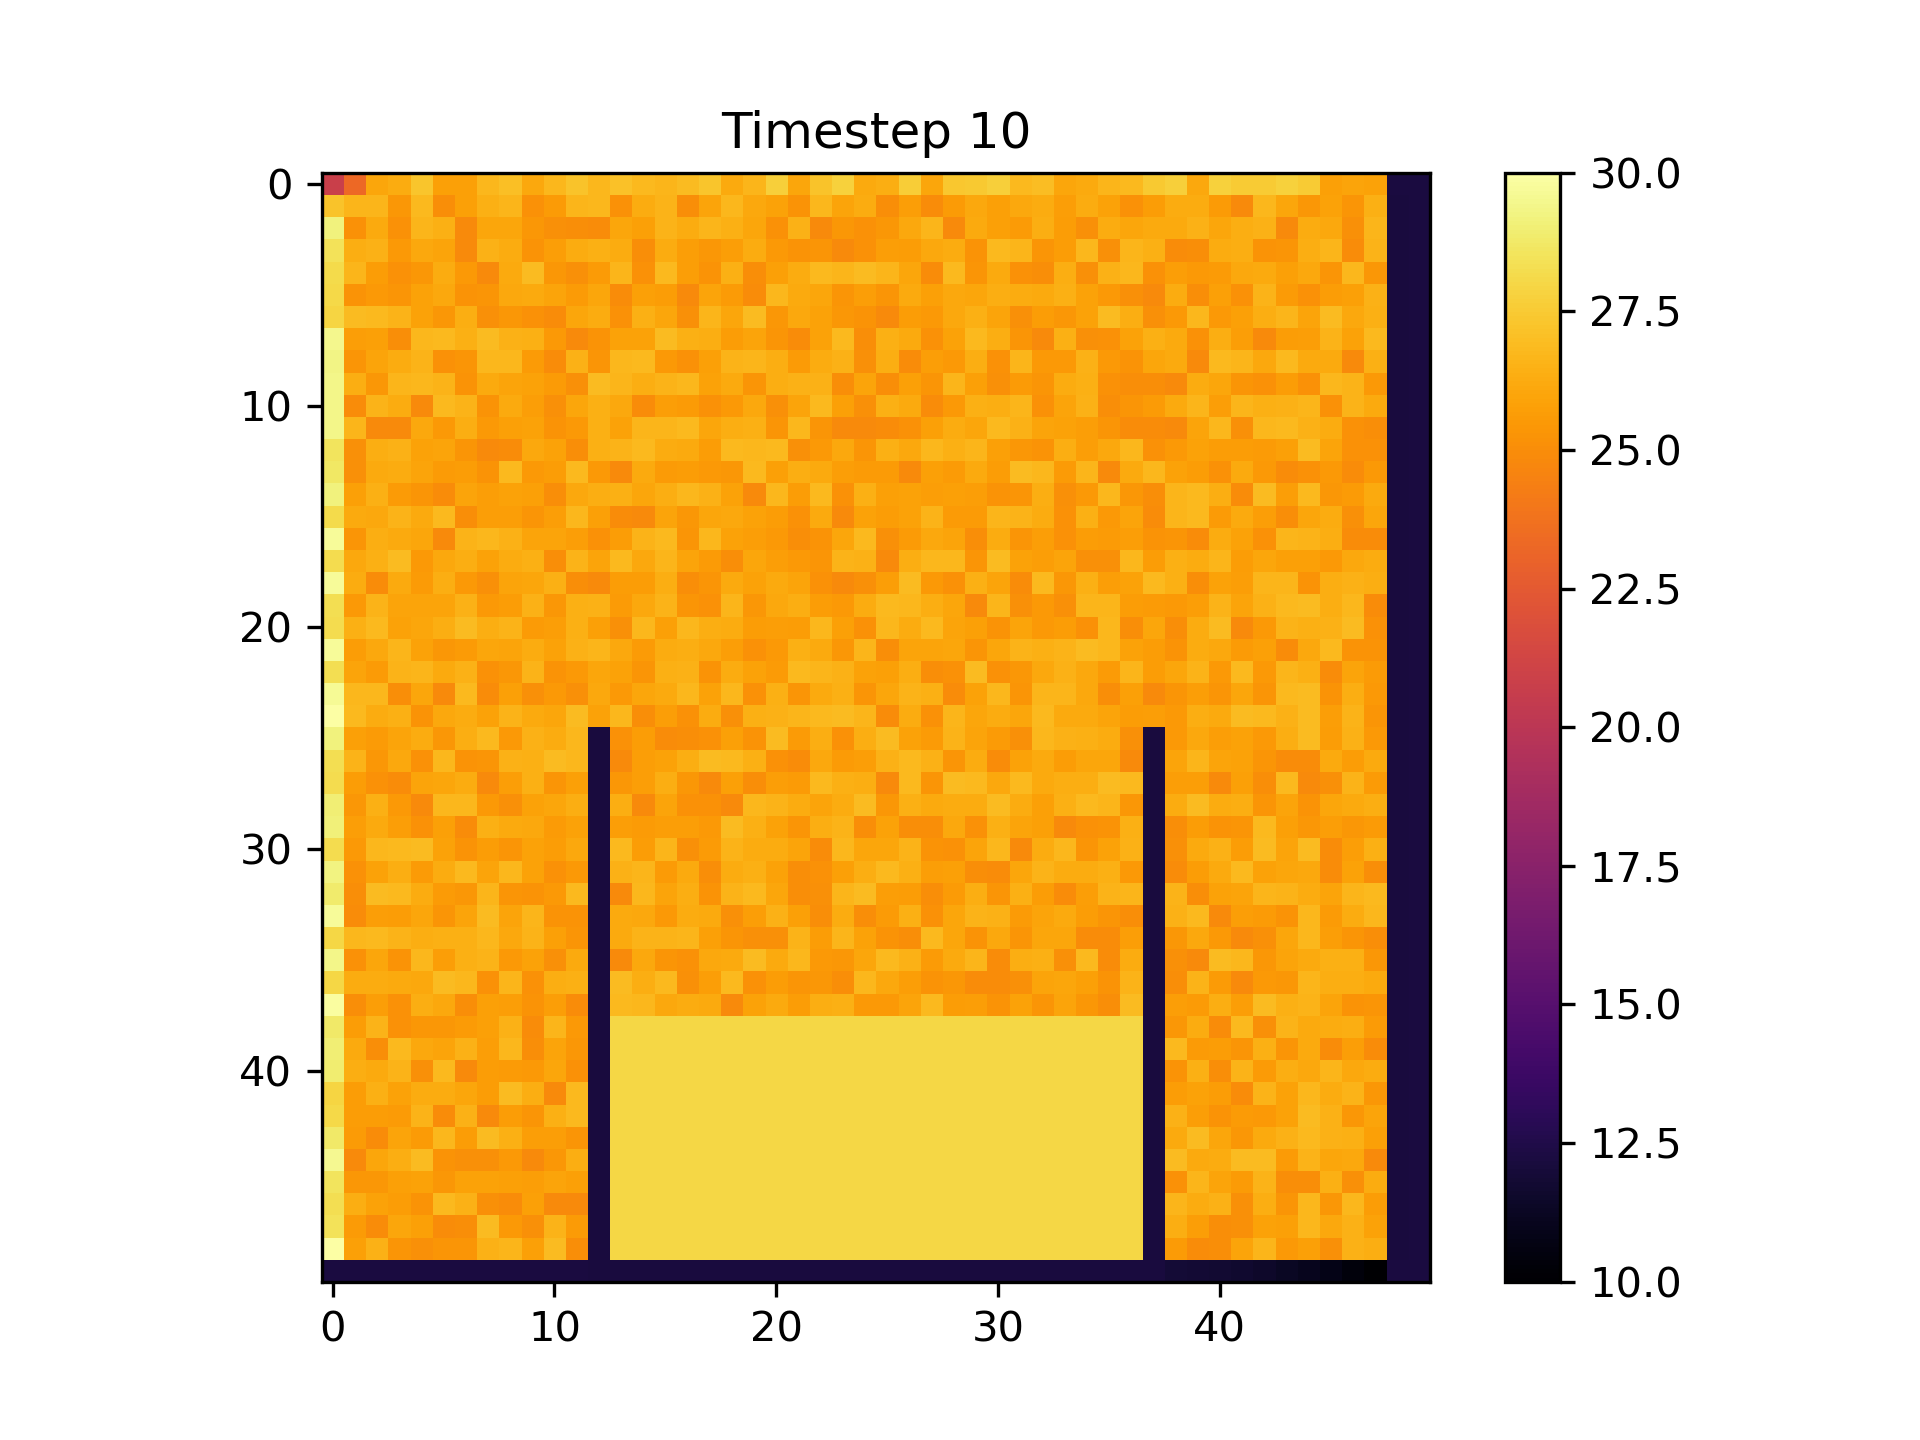
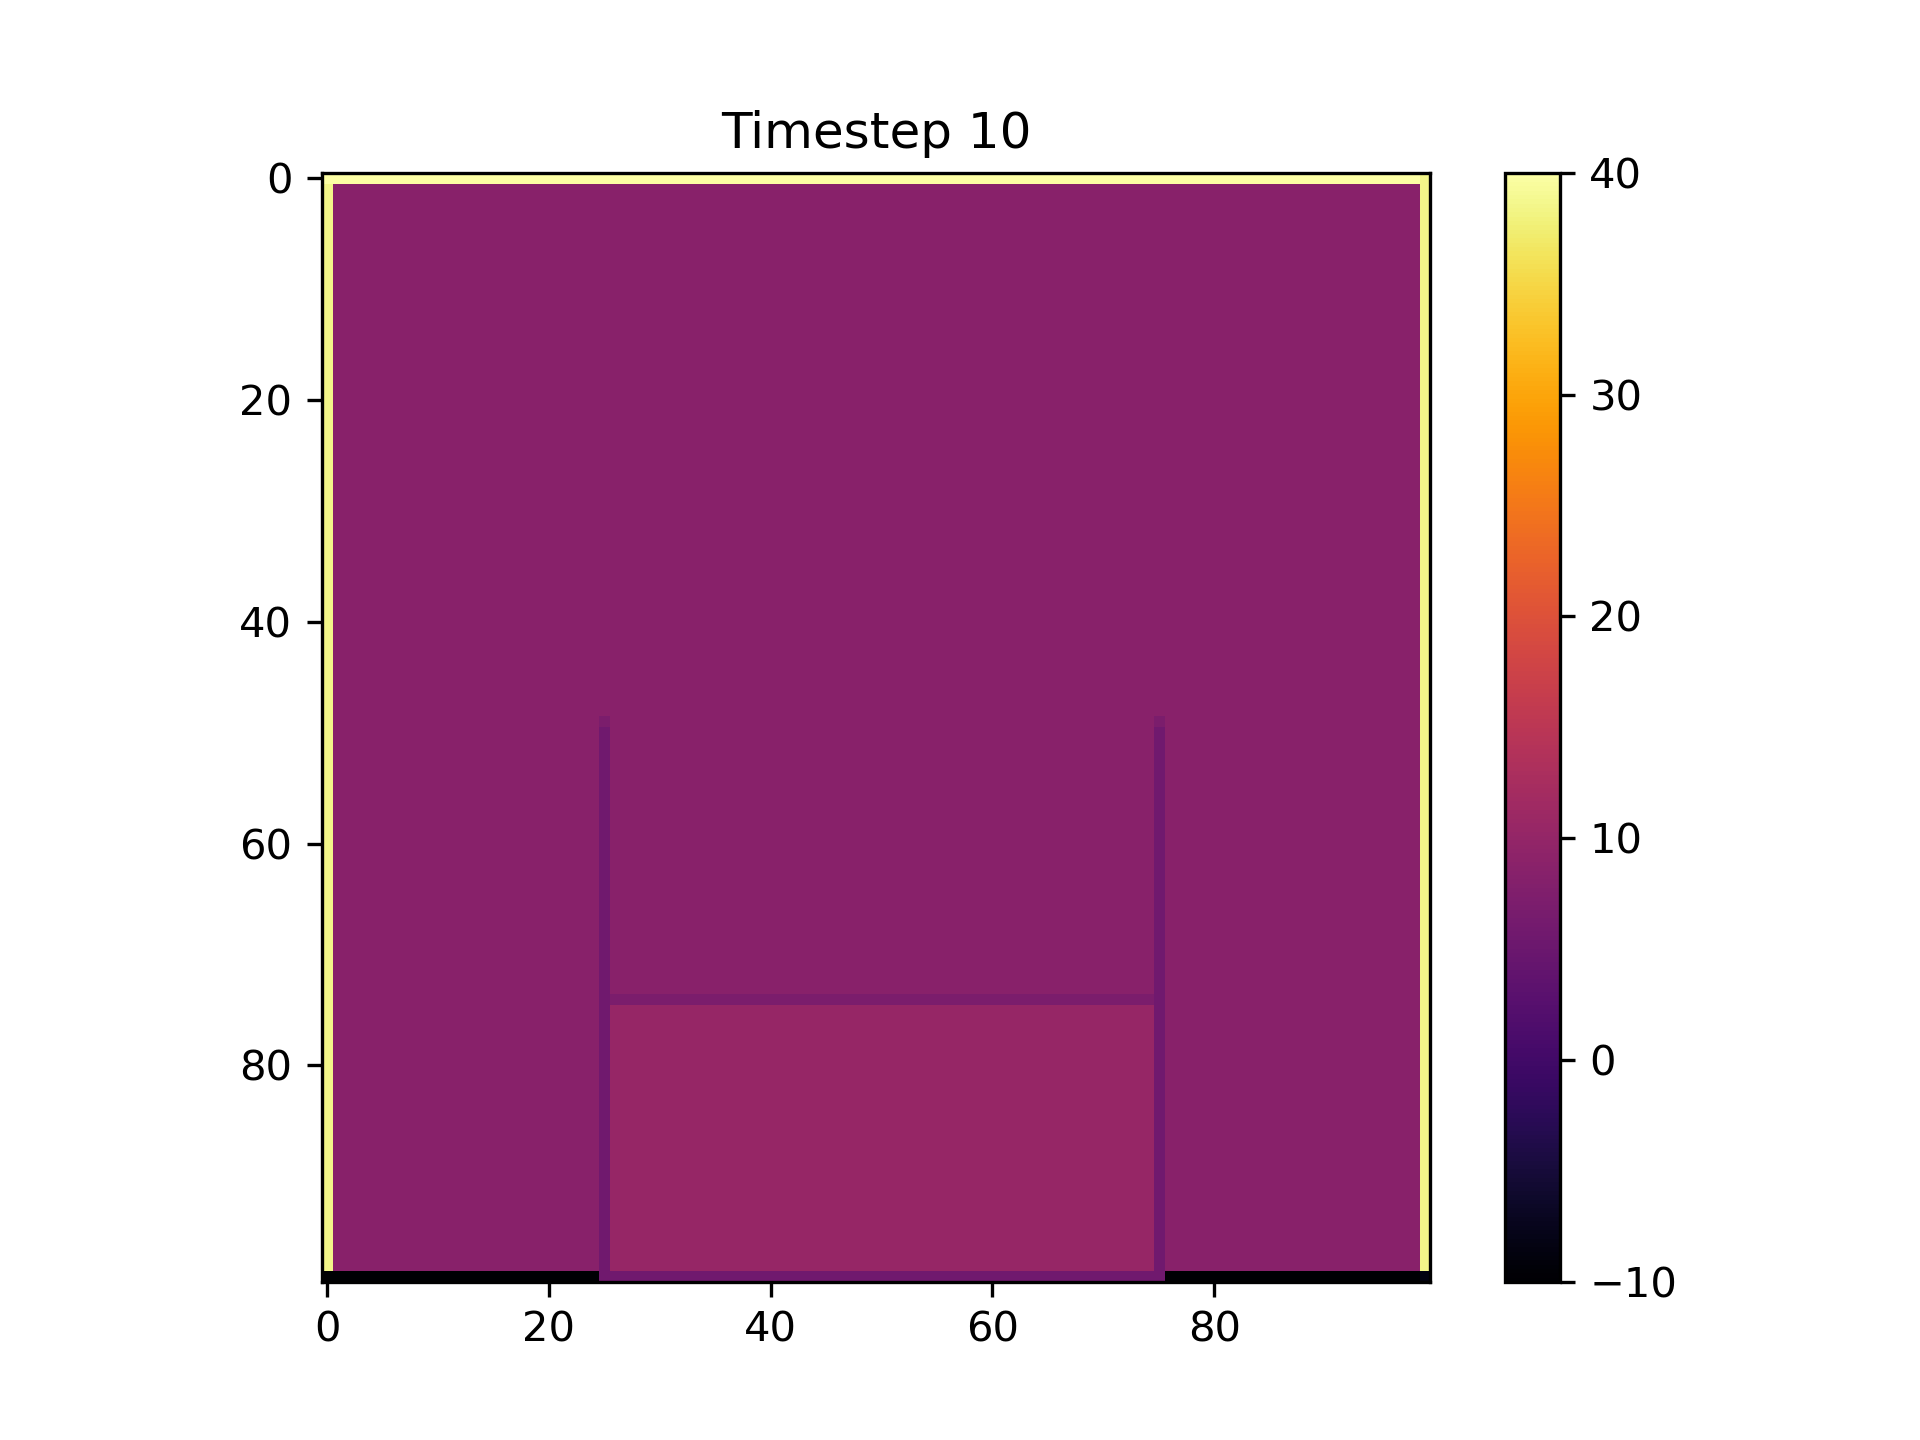
diffusion degree can now be changed

diff --git a/physics.py b/physics.py
@@ -10,7 +10,7 @@ def environmental(resX,resY):
     #sets up random raster conaining values between 0 and 1
 
 
-    temperature_raster = np.array(np.random.uniform(low=15,high=25,size=(resX, resY)))
+    temperature_raster = np.full(shape=(resX,resY),fill_value=20)
 
     return temperature_raster
 
@@ -130,7 +130,7 @@ def containerFill(container, temperature=20):
 #                       PHYSICS STUFF
 
 
-def diffusion(in_raster, resX, resY, diffusion_index, container_temp, loss_over_time, iteration):
+def diffusion(in_raster, resX, resY, diffusion_index, container_temp, loss_over_time, iteration, diffusion_degree):
 
     """Calculates how much the liquid rises and diffuses energy
     because of its temperature.
@@ -139,111 +139,147 @@ def diffusion(in_raster, resX, resY, diffusion_index, container_temp, loss_over_
 
 
     #set up a temporary raster to allow for energy transfer and pad the array to account for external influence
-    temporary_raster = np.full(shape=(resX, resY), fill_value=20)
+    temporary_raster = np.full(shape=(resX, resY), fill_value=20-(iteration*loss_over_time))
     temporary_raster[1:-1, 1:-1]=0
+    temporary_raster[-1]=container_temp
+
 
     #loop through and calculate energy transfer per cell
-    x = 0
-    while x < resX-1:
+    y = 0
+    #loop through rows
+    while y < resX-1:
 
-        y = 0
-        while y < resY-2:
+        x = 0
+        #loop through columns
+        while x < resY:
 
-            temporary_raster = decider_diffusion(in_raster,temporary_raster,x,y, diffusion_index, loss_over_time)
-            #print(decided)
+            temporary_raster = decider_diffusion(in_raster,temporary_raster,x,y, diffusion_index, diffusion_degree)
 
-            y+=1
-        x+=1
+            # add container (simulating cooling)
+            addContainer(temporary_raster,container_temp)
+
+
+
+            x+=1
+        y+=1
 
     # pad again
     pad = np.full(shape=(resX, resY), fill_value=15 - (loss_over_time*iteration))
     pad[1:-1, 1:-1] = 0
+    pad[-1] = container_temp
     temporary_raster = np.add(temporary_raster, pad)
+
 
     # add in_raster to temporary raster to compute diffusion of energy
     out_raster = np.add(in_raster, temporary_raster)
-    return out_raster
+    return out_raster * (1-loss_over_time)
 
-def decider_diffusion(in_raster, temporary_raster, x, y, diffusion_index, loss_over_time):
-    '''decides from where to where diffusion is taking place'''
+def decider_diffusion(in_raster, temporary_raster, x, y, diffusion_index, diffusion_degree):
+    '''decides from where to where diffusion is taking place, is executed on each pixel'''
 
+    #locate the pixel the decider is assessing (x = columns, y=rows)!
     pixel = in_raster[x, y]
+    res = np.shape(in_raster)[0]
 
-    neighbouring_cells = [(-1, -1), (0, -1), (1, -1), (-1, 0), (1, 0), (-1, 1), (0, 1), (1, 1)]
+    #set up to record neighbouring cells
+    neighbouring_cells = neighbourhood(x,y,diffusion_degree)
     neighbour_values = []
 
+    #record neighbouring cells' values, as well as maxima/minima
     for neighbour in neighbouring_cells:
         neighbour_values.append(in_raster[neighbour])
 
-    minimum = min(neighbour_values)
-    min_index = neighbour_values.index(minimum)
     maximum = max(neighbour_values)
+    minimum = min(neighbour_values)
+
+    #get the index of both maximum and minimum
+    min_index = neighbour_values.index(minimum)
     max_index = neighbour_values.index(maximum)
 
-    if pixel > maximum:
+    # if pixel is within the range of other neighbours: diffuse from highest neigbour to pixel
+    if minimum < pixel < maximum:
 
-        #calculation of energy exchange
-        diff = pixel*diffusion_index
-        tempX = x+neighbouring_cells[min_index][0]
-        tempY = y+neighbouring_cells[min_index][1]
+        x_temp = x + neighbouring_cells[max_index][0]
+        y_temp = y + neighbouring_cells[max_index][1]
 
-        if tempX < 0 or tempY < 0:
-            #print("tried to access pixel out of bounds")
+        if x_temp < 0 or y_temp < 0:
+            pass
+        elif x_temp > res or y_temp > res:
             pass
 
         else:
-            count = minCounter(neighbour_values)
-
-            if count > 1:
-                print(count)
-            else:
+            try:
+                temp_pixel = temporary_raster[x_temp, y_temp]
+                diff = diffusion_index * temp_pixel
+                temporary_raster[x,y] += diff
+                temporary_raster[x_temp, y_temp] -= diff
+            except IndexError:
                 pass
-            in_raster[x, y] = pixel - diff
-            temporary_raster[tempX, tempY] += diff
 
+
+
+
+    # if pixel is higher than any neighbour: diffuse part of pixel to lowest neighbour
     elif pixel < minimum:
 
-        # calculation of energy exchange
-        diff = maximum * diffusion_index
-        tempX = x + neighbouring_cells[max_index][0]
-        tempY = y + neighbouring_cells[max_index][1]
+        x_temp = x + neighbouring_cells[min_index][0]
+        y_temp = y + neighbouring_cells[min_index][1]
 
-        if tempX < 0 or tempY < 0:
-            #print("tried to access pixel out of bounds")
+        if x_temp < 0 or y_temp < 0:
+            pass
+        elif x_temp > res or y_temp > res:
             pass
 
         else:
-            count = maxCounter(neighbour_values)
-            if count > 1:
-                print(count)
-            else:
+            try:
+                diff = diffusion_index * pixel
+                temporary_raster[x, y] -= diff
+                temporary_raster[x_temp, y_temp] += diff
+            except IndexError:
                 pass
-            in_raster[x, y] += pixel+diff
-            temporary_raster[tempX, tempY] -= diff
 
-    elif minimum < pixel < maximum:
 
-        diff = maximum * diffusion_index
-        tempX = x + (neighbouring_cells[max_index][0])
-        tempY = y + (neighbouring_cells[max_index][1])
+    # if pixel is lower than any neighbour: diffuse from highest neigbour to pixel
+    elif pixel < minimum:
 
-        if tempX < 0 or tempY < 0:
-            #print("tried to access pixel out of bounds")
+        x_temp = x + neighbouring_cells[max_index][0]
+        y_temp = y + neighbouring_cells[max_index][1]
+
+        if x_temp < 0 or y_temp < 0:
+            pass
+        elif x_temp > res or y_temp > res:
             pass
 
         else:
-            in_raster[x, y] += pixel+diff
-            temporary_raster[tempX,tempY] -= diff
+            try:
+                temp_pixel = temporary_raster[x_temp, y_temp]
+                diff = diffusion_index * temp_pixel
+                temporary_raster[x, y] += diff
+                temporary_raster[x_temp, y_temp] -= diff
+            except IndexError:
+                pass
 
-    else:
-        #print("What the hell happened here at pixel {},{}??".format(x,y))
-        pass
+    #if pixel is encompassed with other pixels of exact same value, distribute upwards
+    elif pixel == minimum == maximum:
+        diff = diffusion_index * pixel
+        x_temp = x - 1
+        y_temp = y
+
+        if x_temp < 0 or y_temp < 0:
+            pass
+        elif x_temp > res or y_temp > res:
+            pass
+
+        else:
+            try:
+                temporary_raster[x, y] -= diff
+                temporary_raster[x_temp, y_temp] += diff
+            except IndexError:
+                pass
 
 
 
-
-    #calculate energy loss over time and return the calculated raster
-    return temporary_raster*(1-loss_over_time)
+    return temporary_raster
 
 def maxCounter(list):
 
@@ -253,6 +289,31 @@ def maxCounter(list):
 def minCounter(list):
     count = list.count(min(list))
     return count
+
+def neighbourhood(x,y,degree):
+    """finds surrounding pixel of the input pixel"""
+
+    neighbours = []
+
+    # loop through rows
+    a = y
+    # loop through rows
+    while y - degree/2 < a < y  + degree/2:
+
+        b = x
+        # loop through columns
+        while x - degree/2 < b < x + degree/2:
+
+            index_rel_a = y - a
+            index_rel_b = x - b
+
+            neighbours.append((index_rel_a,index_rel_b))
+
+            b += 1
+        a += 1
+
+    return neighbours
+
 
 
 

diff --git a/visualizer.py b/visualizer.py
@@ -12,18 +12,19 @@ from convectionModel.physics import *
 
 
 # raster size and timesteps
-resX = 50
+resX = 100
 resY = resX
 dpi = 300
 timesteps = 10
-container_temp = 10
+container_temp = -10
 
 # fill temperature and height of pre-filled liquid as well as energy lost to the exterior of the system
 pre_fill = True
-fill_temp = 30
+fill_temp = 40
 filling_height = 0.75
-diffusion_index = 0.1
-loss_over_time = diffusion_index*2
+diffusion_index = 0.75
+diffusion_degree = 12
+loss_over_time = 0
 
 # set up list to convert output to gif
 out_rasters = []
@@ -50,12 +51,13 @@ while iteration < timesteps:
     else:
         #get materials from initial raster
         mats = materials(temperature_raster, resX, resY, fill_temp)
+
         # calculate temperature diffusion and updraft
-        temperature_raster = diffusion(temperature_raster, resX, resY, diffusion_index, container_temp, loss_over_time, iteration)
+        temperature_raster = diffusion(temperature_raster, resX, resY, diffusion_index, container_temp, loss_over_time, iteration, diffusion_degree)
 
-
-        # add container
+        # add container (for visuals)
         container = addContainer(temperature_raster, container_temp)
+
 
 
 

diff --git a/test.py b/test.py
@@ -1,7 +1,11 @@
 import numpy as np
+import random
 
-test = max(0,2,2,1)
+list = [1,1,2,5,4,2,5]
 
 
 
-print(test)
+while True:
+    rando = random.randint(0, len(list))
+    print(rando)
+
